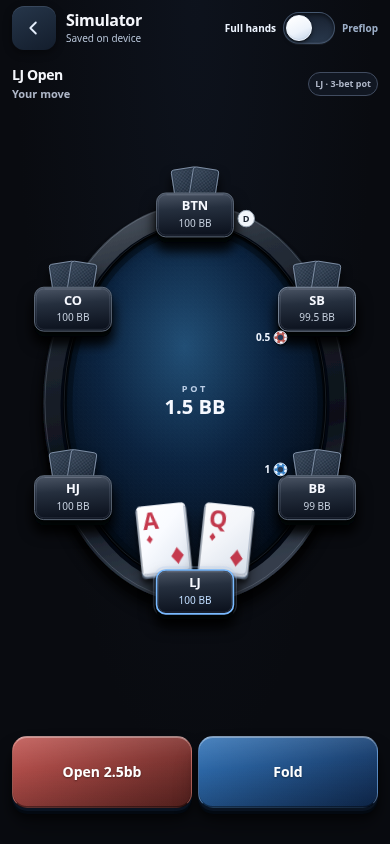
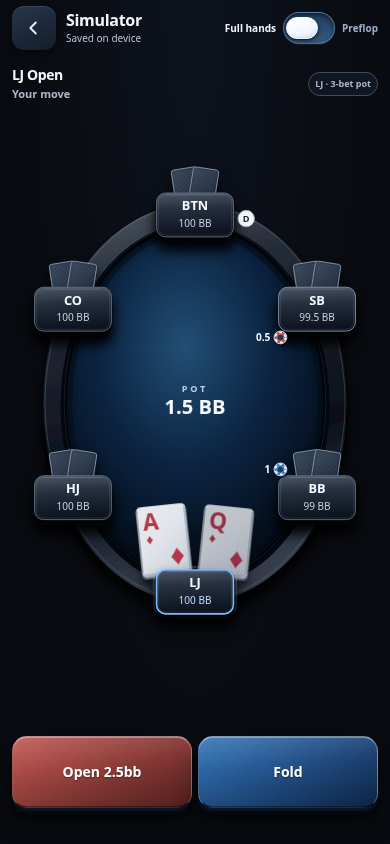
style: refine mode switch with oval thumb and lighter navy

diff --git a/src/app/mode-switch.css b/src/app/mode-switch.css
@@ -40,9 +40,9 @@
   display: block;
   width: 52px;
   height: 32px;
-  border: 1px solid #64789480;
+  border: 1px solid #759fc580;
   border-radius: 999px;
-  background: linear-gradient(180deg, #182130, #29384c);
+  background: linear-gradient(180deg, #213c5e, #345a80);
   box-shadow:
     inset 0 2px 4px #0008,
     inset 0 -1px 0 #d0e3ff10,
@@ -52,15 +52,15 @@
   content: '';
   position: absolute;
   inset: -1px;
-  border: 1px solid #80a9e1b0;
+  border: 1px solid #9ac9f5c0;
   border-radius: inherit;
   background:
-    radial-gradient(ellipse at 60% 10%, #548cc640, transparent 90%),
-    linear-gradient(180deg, #1b3d6a, #2a5689);
+    radial-gradient(ellipse at 60% 10%, #8bc8ff40, transparent 90%),
+    linear-gradient(180deg, #28568f, #3d7cbb);
   box-shadow:
-    inset 0 1px 2px #aecbff30,
-    inset 0 -2px 3px #061c3470,
-    0 0 10px #3164a128;
+    inset 0 1px 2px #c1e2ff40,
+    inset 0 -2px 3px #0c315570,
+    0 0 10px #468fce28;
   opacity: 0;
   transition: opacity 220ms ease;
 }
@@ -69,14 +69,14 @@
 }
 .sim-mode__thumb {
   position: absolute;
-  top: 2px;
+  top: 4px;
   left: 2px;
   display: block;
-  width: 26px;
-  height: 26px;
+  width: 32px;
+  height: 22px;
   border: 1px solid #f3f8ff;
-  border-radius: 50%;
-  background: linear-gradient(155deg, #fff 8%, #edf3fb 60%, #c4d4e8);
+  border-radius: 999px;
+  background: linear-gradient(155deg, #fff 8%, #f2f8ff 60%, #d4e5f6);
   box-shadow:
     inset 0 1px 1px #fff,
     inset 0 -1px 1px #a2b5ce50,
@@ -89,7 +89,7 @@
   will-change: transform;
 }
 .sim-mode--preflop .sim-mode__thumb {
-  transform: translateX(20px);
+  transform: translateX(14px);
 }
 .sim-mode__switch:focus-visible {
   outline: 2px solid #b9d6ff;

diff --git a/docs/implementation/MODE_SWITCH.md b/docs/implementation/MODE_SWITCH.md
@@ -4,7 +4,7 @@ The user clarified that the imported simulator already has Preflop practice. Thi
 
 ## Interface
 
-The compact header has a navy iOS-style switch with Full hands on the left and Preflop on the right. Off means Full hands; on means Preflop. The pearl thumb slides with a short eased transition over an inset navy track. It uses a 44-pixel-high hit target, keyboard activation, switch semantics and a description of both states. Reduced-motion preferences remove transitions. The existing viewport-sized simulator layout and action controls remain in place. Routine settings remain on Home; the old duplicate mode selector inside recovery details is removed.
+The compact header has a navy iOS-style switch with Full hands on the left and Preflop on the right. Off means Full hands; on means Preflop. The pearl oval thumb is centered vertically and slides with a short eased transition over an inset, brighter blue navy track. It uses a 44-pixel-high hit target, keyboard activation, switch semantics and a description of both states. Reduced-motion preferences remove transitions. The existing viewport-sized simulator layout and action controls remain in place. Routine settings remain on Home; the old duplicate mode selector inside recovery details is removed.
 
 ## Saving and switching
 
@@ -23,3 +23,6 @@ The protected PlayPage seam is limited to replacing the hidden selector with hea
 Unit checks cover queued-save ordering, checkpoint/config restoration, retained counts, backup validation, compaction protection, invalid transitions and switching from manual practice. Production browser checks cover the sliding switch, keyboard/double-input safety, reload, manual retry/live restoration, unavailable packs, ownership failure, supported preflop configurations and reduced motion. Existing mobile-layout journeys also check switch bounds alongside cards and action buttons.
 
 Final verification, 2026-11-16: `npm run check` passed 157 unit tests across sixteen files, TypeScript and the reviewed integrity guard. The production build and all 56 production browser journeys passed. The extended cold-offline journey passed again with switches to Preflop and back while disconnected. The animation/reload/keyboard journey was repeated to capture the final actual-app screenshots. See [the implemented switch](../design/mode-switch/README.md). Actual iPhone/Safari animation smoothness, touch feel, safe-area behavior and VoiceOver remain device checks. This is a CSS/HTML switch in the existing web app, not an assertion of native UIKit verification. No next-feature drill work is included.
+
+
+Visual follow-up, 2026-11-16: replaced the circular thumb with a wider oval, centered it vertically and adjusted its travel to keep it inside the existing track. Both track states use a lighter, more blue navy, with a brighter selected gradient. The control dimensions, hit target, mode logic and save behavior are unchanged. Updated screenshots show the actual production app. TypeScript, all 157 unit tests, production build, integrity guard and the 16 existing mode-switch/mobile-focus browser journeys passed. Actual iPhone appearance and touch/animation feel remain device checks.

diff --git a/docs/design/mode-switch/README.md b/docs/design/mode-switch/README.md
@@ -3,8 +3,8 @@
 Actual production-app Chromium captures at 390 × 844 CSS pixels, with animation enabled. The existing trainer modes and poker data are reused.
 
 - [Full hands selected](full-hands.png): navy iOS-style switch in the compact simulator header.
-- [Preflop selected](preflop.png): pearl thumb slides right and the navy track lights up.
+- [Preflop selected](preflop.png): vertically centered oval thumb slides right and the lighter blue navy track lights up.
 
-Screenshots show the settled positions. Automated checks also cover the thumb transition, reduced motion, keyboard activation, same-hand restoration, reload, manual retries, nine-seat mixed-preflop configuration, failure recovery and offline switching. Actual iPhone animation smoothness and touch feel remain device checks.
+Screenshots show the refined oval-thumb design in its settled positions. Automated checks also cover the thumb transition, reduced motion, keyboard activation, same-hand restoration, reload, manual retries, nine-seat mixed-preflop configuration, failure recovery and offline switching. Actual iPhone animation smoothness and touch feel remain device checks.
 
 See [the implementation audit](../../implementation/MODE_SWITCH.md).

diff --git a/ROADMAP.md b/ROADMAP.md
@@ -7,6 +7,7 @@ This file is the persistent build checklist. [LEARNING_PLAN.md](docs/LEARNING_PL
 ## Current approved step: discoverable simulator mode switch
 
 - [x] Expose the existing Full hands / Preflop modes with a navy iOS-style header switch and short sliding animation.
+- [x] Refine the thumb to a centered oval and use a lighter, clearer blue navy track, following user feedback.
 - [x] Preserve each mode's live hand/configuration, save before switching, handle manual retries and retain source/ownership checks.
 - [x] Include bounded mode bookmarks in backup validation and retention; keep engine, grading and data unchanged.
 - [x] Finish automated switch, mobile layout, failure-path and regression checks; see [the implementation audit](docs/implementation/MODE_SWITCH.md).
